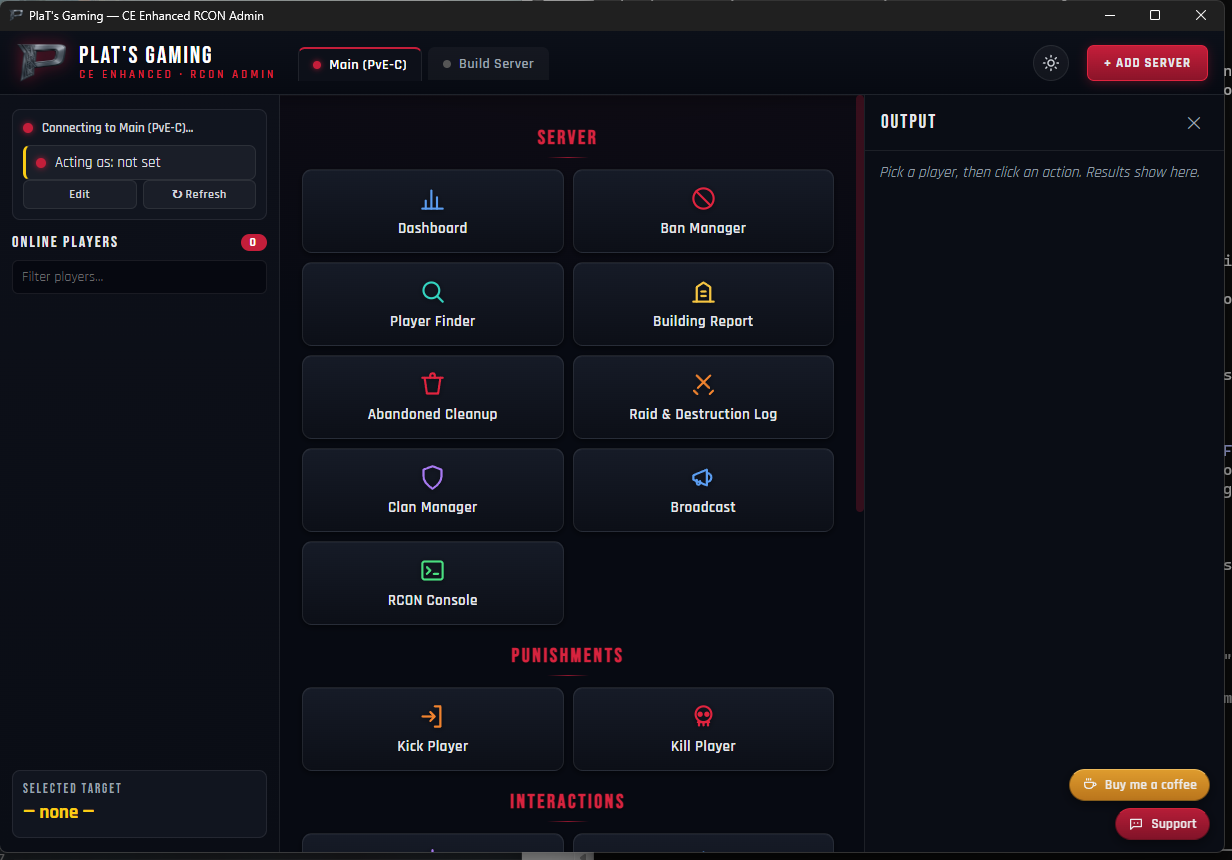
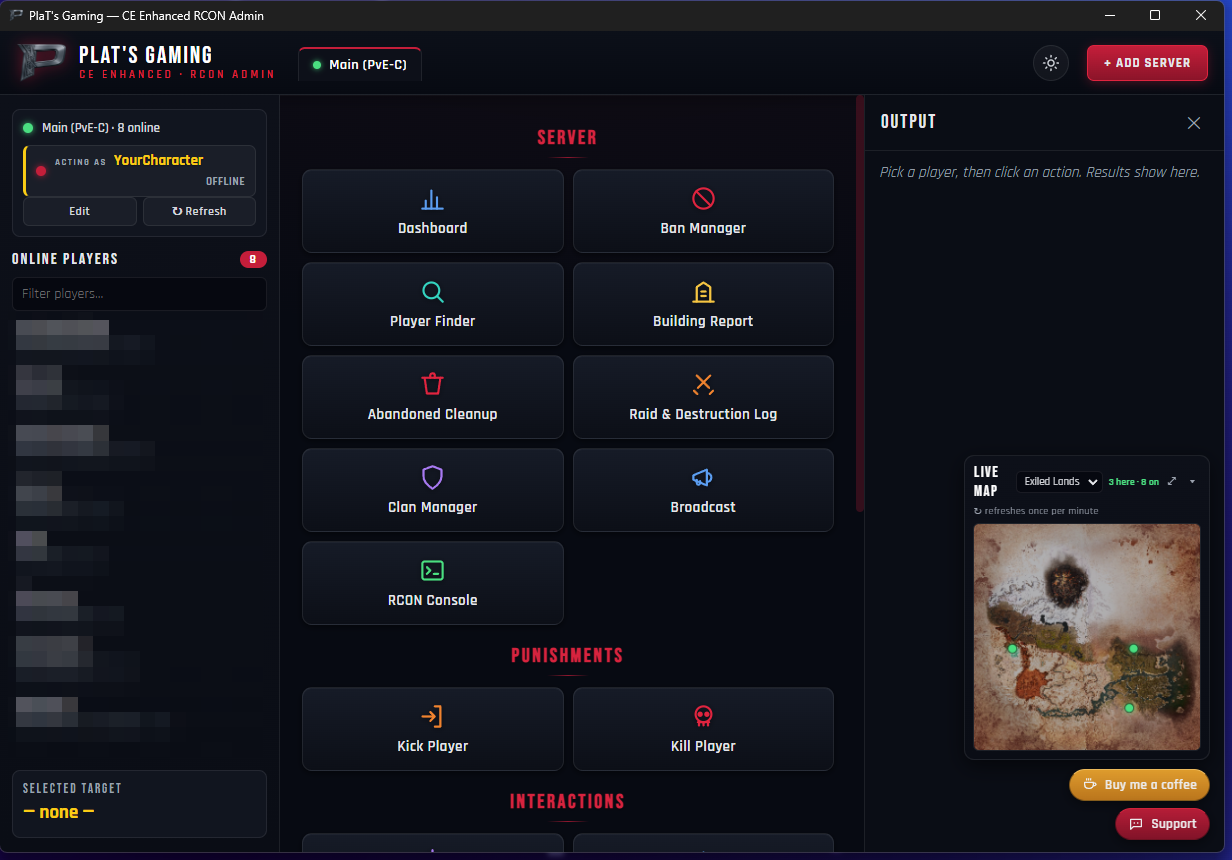
README: refresh action-panel screenshot to show the live player map
New shot connected to a server so the bottom-right live map is populated
with player dots. Server tab relabeled to a demo name and the online-player
list blurred so no real player/server identities are published.

diff --git a/README.md b/README.md
@@ -11,9 +11,9 @@ clean panel that talks to your server the same way any RCON tool does.
 
 ## Screenshots
 
-**The admin panel** — every tool one click away (shown with demo servers):
+**The admin panel** — every tool one click away, with the **live player map** (bottom-right). *(Server label is a demo; online-player names blurred for privacy.)*
 
-![PlaT's Gaming RCON Admin — action panel](docs/screenshots/02-action-grid.png)
+![PlaT's Gaming RCON Admin — action panel with live map](docs/screenshots/02-action-grid.png)
 
 **First run** — add your server (IP, RCON password, character name) and go:
 
